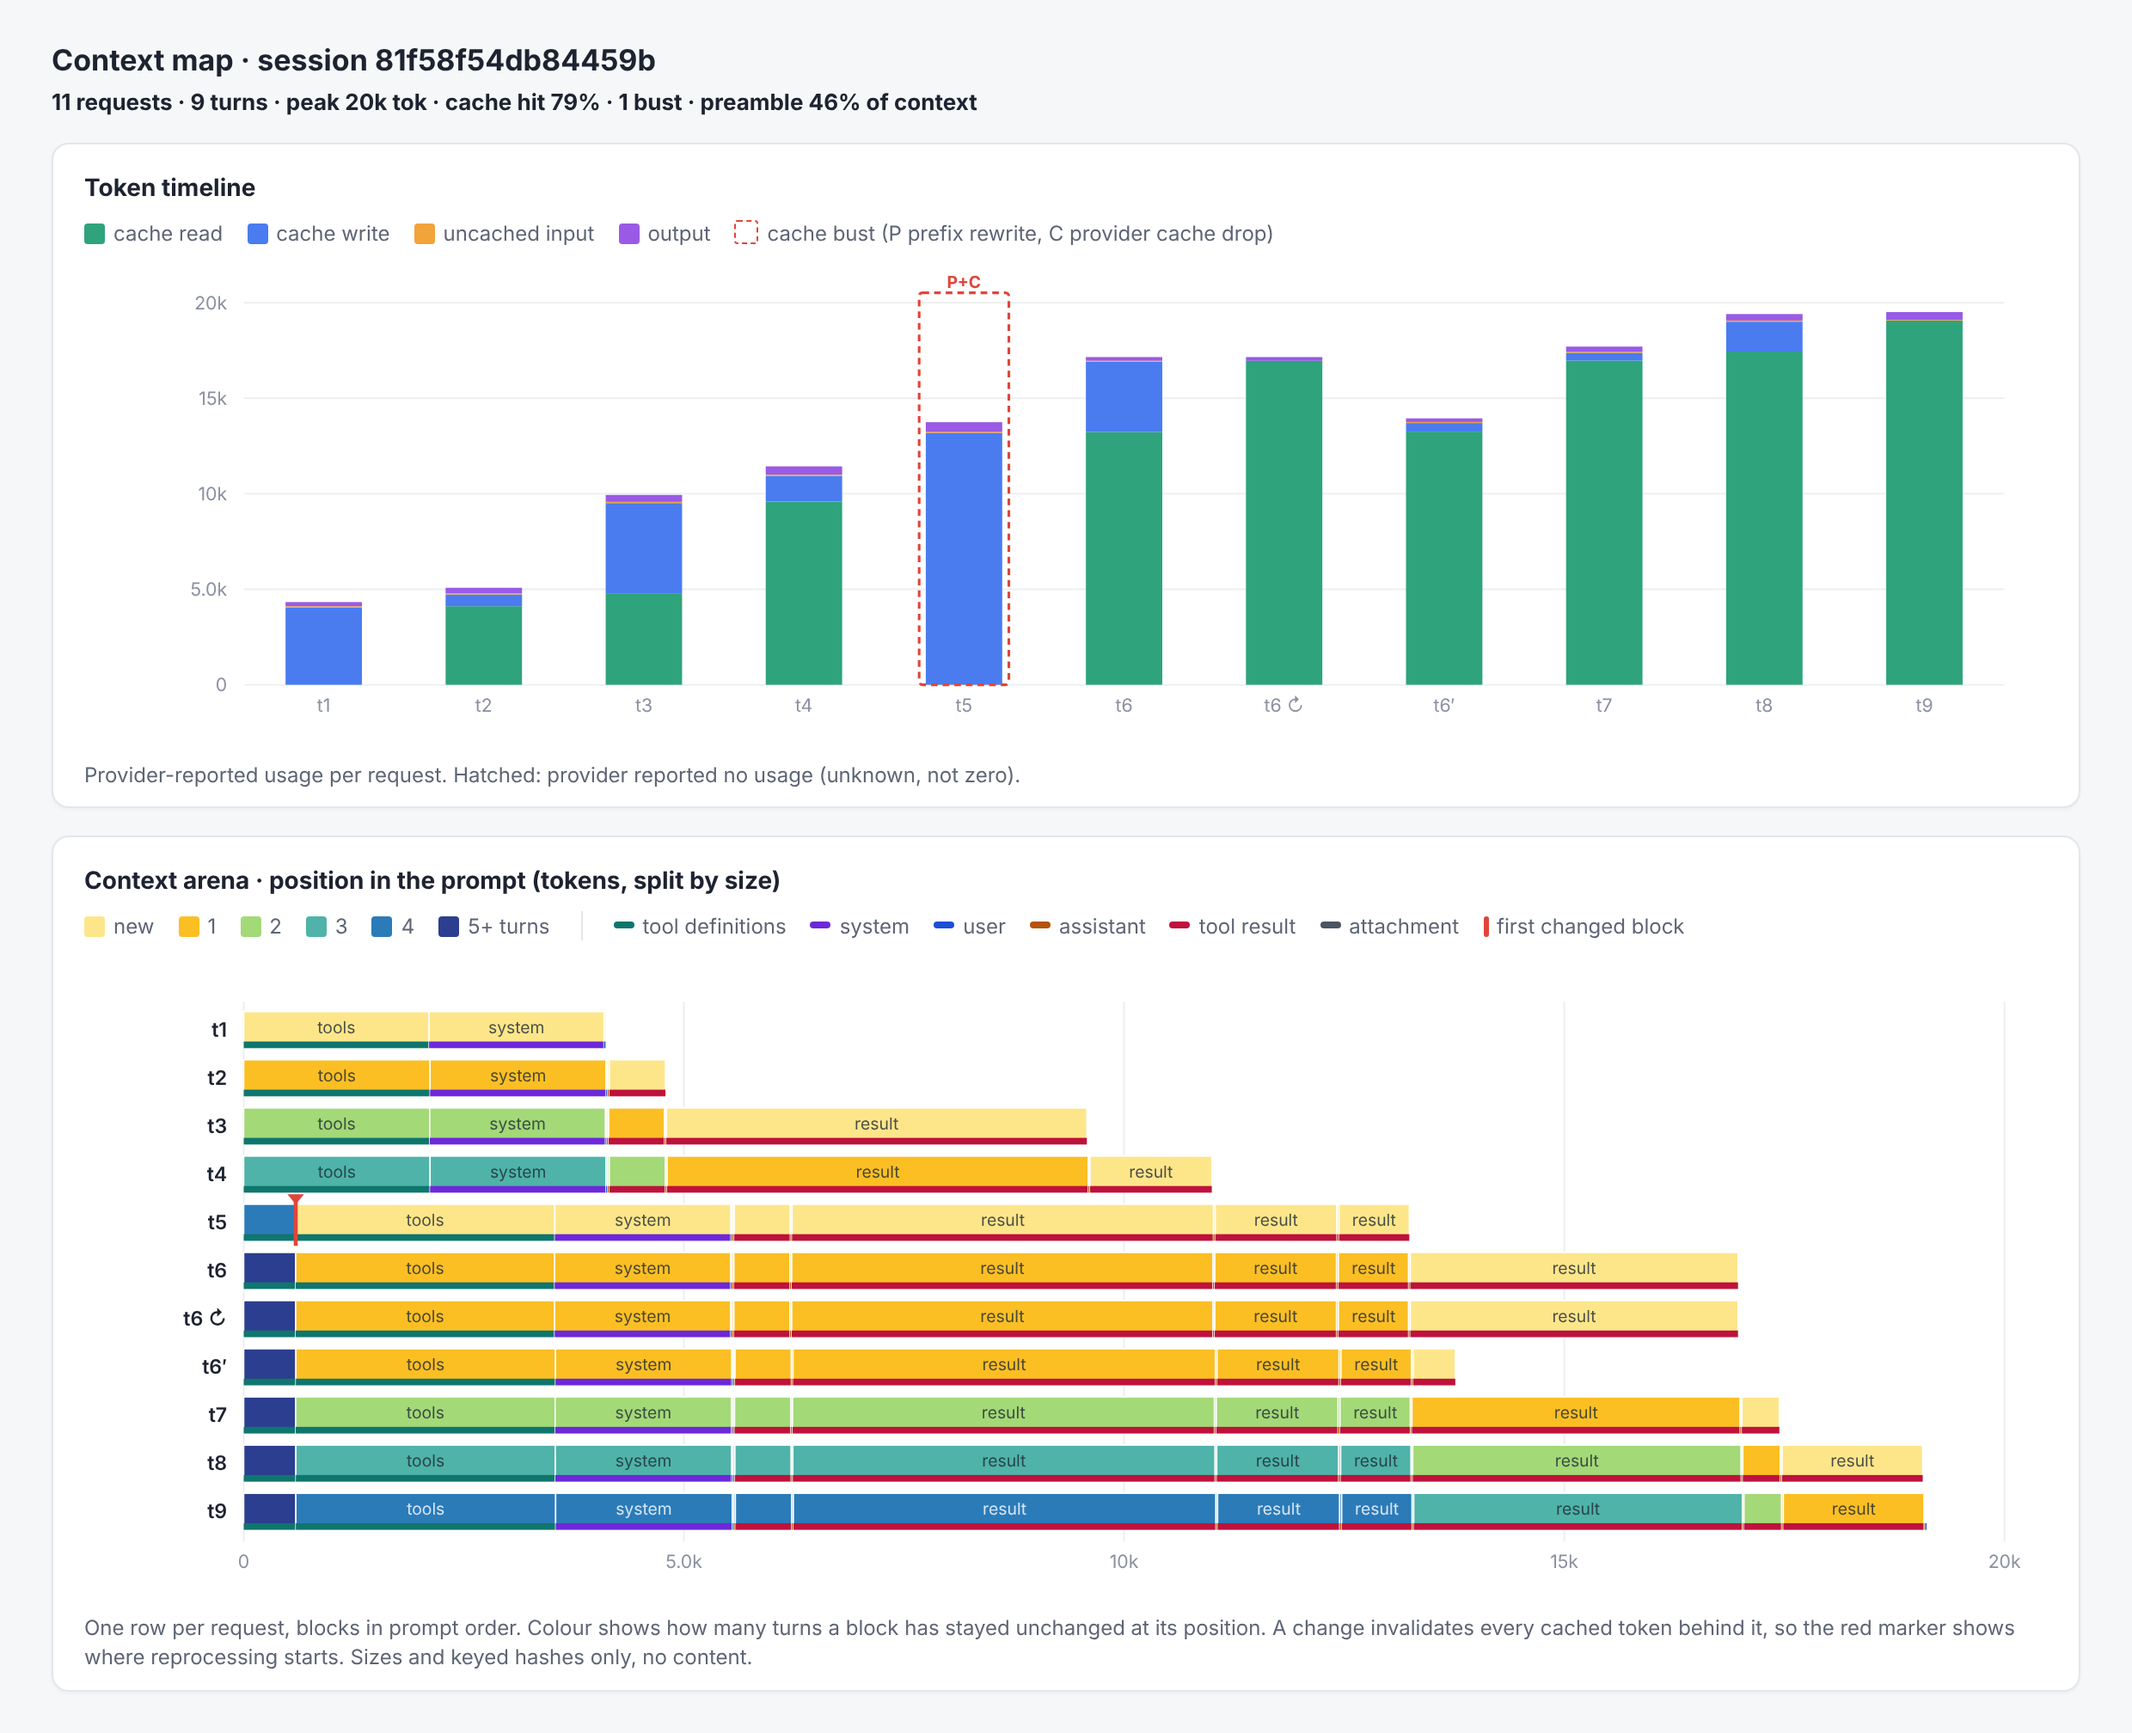
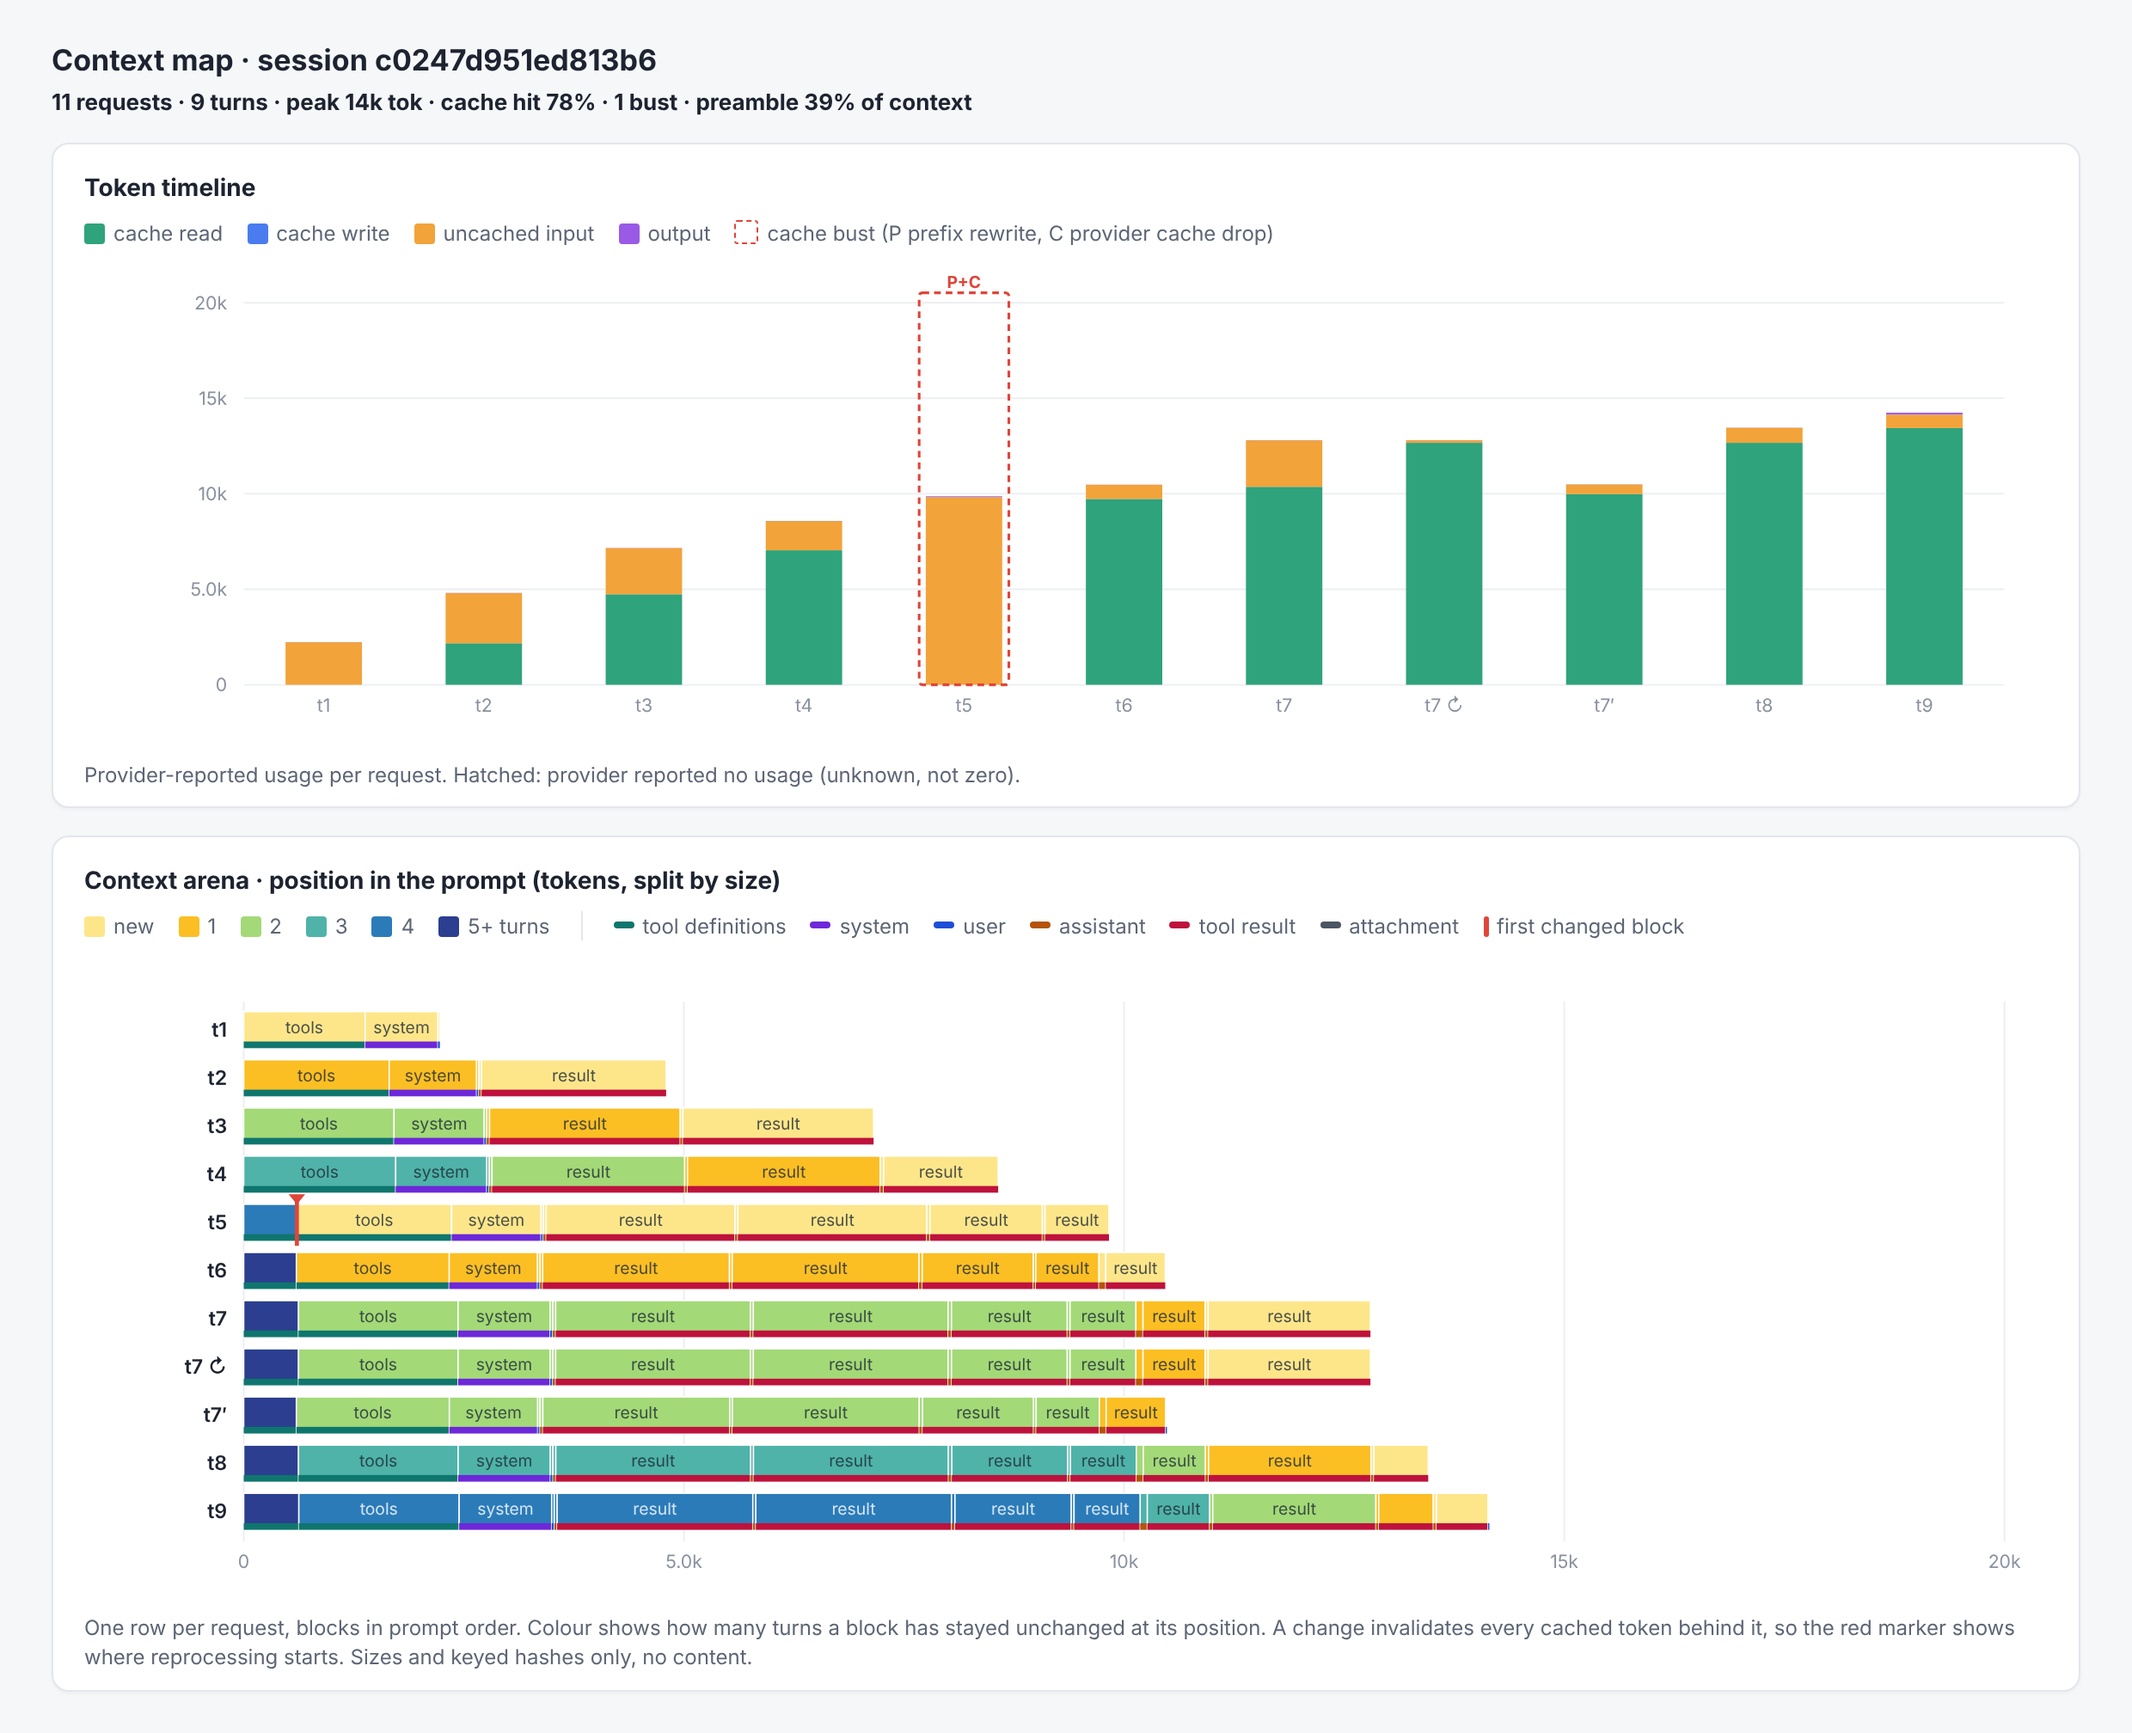
docs(context): context map from a real gpt-4o-mini session
examples/context-map/live.mjs drives a real tool-using agent loop (streaming,
include_usage) through a local ai-audit proxy: growing tool results from the
repo, a skill tool inserted near the front at t5, one retry and one edited
branch. docs/context-map.png is now rendered from that session's audit log
(11 requests, 106.7k prompt tokens, 82.8k cached). The key is read only from
the proxy's environment; the log stays outside the repo.

diff --git a/README.md b/README.md
@@ -33,9 +33,9 @@ Context map: `ai-audit context` lists sessions. `ai-audit context --session <id>
 - a token timeline with provider-reported cache read, cache write, uncached input and output per request. Cache busts are marked, with the signal: P is a prefix rewrite, C is a provider cache drop.
 - an arena map: one row per request, blocks in prompt order, coloured by how many turns they stayed unchanged at their position. A red marker shows the first changed offset, where every cached token behind it is lost.
 
-The header shows peak tokens, cache hit rate, busts and the share of the preamble (tools and system). Sizes and keyed hashes only ([ADR 0020](docs/adr/0020-context-arena-and-cache-busts.md)). `node examples/context-map/generate.mjs out.html` builds the example below from fake data: tool results grow, a skill tool is inserted near the front (bust), then a retry and an edited branch.
+The header shows peak tokens, cache hit rate, busts and the share of the preamble (tools and system). Sizes and keyed hashes only ([ADR 0020](docs/adr/0020-context-arena-and-cache-busts.md)). The image below is from a real gpt-4o-mini session sent through the proxy on 2026-10-21 by `examples/context-map/live.mjs` (11 requests, about 107k prompt tokens, under 0.01 USD). The agent reads ai-audit's own files with tools. At t5 a skill tool is inserted near the front of the tool list, then come a retry and an edited branch. In that run OpenAI reported 0 cached tokens at t5, so both signals fired. Every other request after t1 reused the previous prefix. To run it, start `ai-audit serve` with `AI_AUDIT_UPSTREAM_OPENAI_KEY` and `AI_AUDIT_CLIENT_KEY`, then run `AI_AUDIT_URL=http://127.0.0.1:8787 AI_AUDIT_CLIENT_KEY=... node examples/context-map/live.mjs`. `examples/context-map/generate.mjs` builds a similar page offline from fake data.
 
-![Context map of an example agent session](docs/context-map.png)
+![Context map of a real gpt-4o-mini session through the proxy](docs/context-map.png)
 
 Metrics: `GET /metrics` returns OpenMetrics text (Prometheus and VictoriaMetrics scrape it): `ai_audit_requests_total{route,decision,status}`, `ai_audit_request_duration_seconds` (histogram, 5 ms to 300 s), `ai_audit_log_unavailable_total`, `ai_audit_log_write_failures_total`, `ai_audit_injection_signals_total{rule}`, `ai_audit_upstream_responses_total{provider,class}`, `ai_audit_upstream_errors_total{provider,reason}`, `ai_audit_unknown_usage_total{provider,field}`, `ai_audit_attachments_inspected_total` and attachment cache hits/misses. Labels come from fixed sets (unknown paths are `route="other"`), never from content. The endpoint has no auth, like `/healthz`: it exposes counts only. The proxy binds to 127.0.0.1 by default; if you expose it, restrict `/metrics` at the network layer. A ready-made stack (VictoriaMetrics, Grafana dashboard and alerts, ntfy) is in [examples/monitoring](examples/monitoring/README.md).
 
